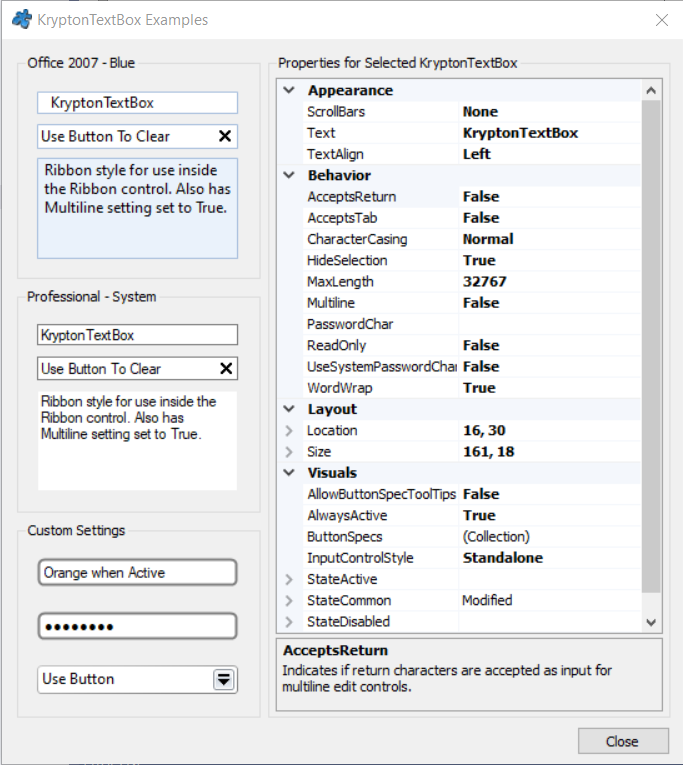
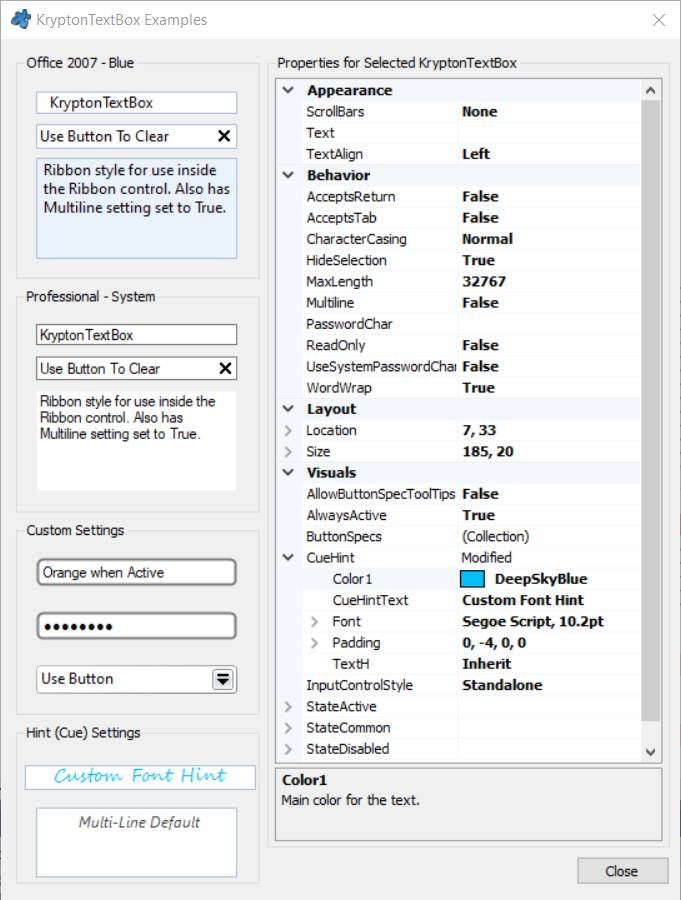
- Add Updates for the Cusatomisable CueHint Text display

Changed region(s): [[0.0, 0.0, 1.0, 1.0], [0.0, 0.0, 0.37, 0.932]]

diff --git a/Source/Krypton Toolkit Examples/KryptonTextBox Examples/Form1.cs b/Source/Krypton Toolkit Examples/KryptonTextBox Examples/Form1.cs
@@ -6,13 +6,13 @@
 //  Glen Waverley, Vic 3150, Australia and are supplied subject to licence terms.
 // 
 //  Modifications by Peter Wagner(aka Wagnerp) & Simon Coghlan(aka Smurf-IV) 2017 - 2021. All rights reserved. (https://github.com/Krypton-Suite/Standard-Toolkit)
-//  Version 5.550.0 	www.ComponentFactory.com
 // *****************************************************************************
 
 using System;
+using System.ComponentModel;
 using System.Drawing;
 using System.Windows.Forms;
-using System.ComponentModel;
+
 using Krypton.Toolkit;
 
 namespace KryptonTextBoxExamples
@@ -68,11 +68,12 @@ namespace KryptonTextBoxExamples
         {
             Close();
         }
+
     }
 
     public class KryptonTextBoxProxy
     {
-        private KryptonTextBox _textBox;
+        private readonly KryptonTextBox _textBox;
 
         public KryptonTextBoxProxy(KryptonTextBox textBox)
         {
@@ -83,179 +84,168 @@ namespace KryptonTextBoxExamples
         [Description("Text for display inside the control.")]
         public string Text
         {
-            get { return _textBox.Text; }
-            set { _textBox.Text = value; }
+            get => _textBox.Text;
+            set => _textBox.Text = value;
         }
 
         [Category("Visuals")]
         [Description("Determines if the control is always active or only when the mouse is over the control or has focus.")]
         public bool AlwaysActive
         {
-            get { return _textBox.AlwaysActive; }
-            set { _textBox.AlwaysActive = value; }
+            get => _textBox.AlwaysActive;
+            set => _textBox.AlwaysActive = value;
         }
+
+        [Category("Visuals")]
+        [Description("Set a watermark/prompt message for the user.")]
+        public PaletteCueHintText CueHint => _textBox.CueHint;
 
         [Category("Appearance")]
         [Description("Indicates, for multiline edit controls, which scroll bars will be shown for this control.")]
         public ScrollBars ScrollBars
         {
-            get { return _textBox.ScrollBars; }
-            set { _textBox.ScrollBars = value; }
+            get => _textBox.ScrollBars;
+            set => _textBox.ScrollBars = value;
         }
 
         [Category("Appearance")]
         [Description("Indicates how the text should be aligned for edit controls.")]
         public HorizontalAlignment TextAlign
         {
-            get { return _textBox.TextAlign; }
-            set { _textBox.TextAlign = value; }
+            get => _textBox.TextAlign;
+            set => _textBox.TextAlign = value;
         }
 
         [Category("Behavior")]
         [Description("Indicates if lines are automatically word-wrapped for multiline edit controls.")]
         public bool WordWrap
         {
-            get { return _textBox.WordWrap; }
-            set { _textBox.WordWrap = value; }
+            get => _textBox.WordWrap;
+            set => _textBox.WordWrap = value;
         }
 
         [Category("Behavior")]
         [Description("Control whether the text in the control can span more than one line.")]
         public bool Multiline
         {
-            get { return _textBox.Multiline; }
-            set { _textBox.Multiline = value; }
+            get => _textBox.Multiline;
+            set => _textBox.Multiline = value;
         }
 
         [Category("Behavior")]
         [Description("Indicates if return characters are accepted as input for multiline edit controls.")]
         public bool AcceptsReturn
         {
-            get { return _textBox.AcceptsReturn; }
-            set { _textBox.AcceptsReturn = value; }
+            get => _textBox.AcceptsReturn;
+            set => _textBox.AcceptsReturn = value;
         }
 
         [Category("Behavior")]
         [Description("Indicates if tab characters are accepted as input for multiline edit controls.")]
         public bool AcceptsTab
         {
-            get { return _textBox.AcceptsTab; }
-            set { _textBox.AcceptsTab = value; }
+            get => _textBox.AcceptsTab;
+            set => _textBox.AcceptsTab = value;
         }
 
         [Category("Behavior")]
         [Description("Indicates if all the characters should be left alone or converted to uppercase or lowercase.")]
         public CharacterCasing CharacterCasing
         {
-            get { return _textBox.CharacterCasing; }
-            set { _textBox.CharacterCasing = value; }
+            get => _textBox.CharacterCasing;
+            set => _textBox.CharacterCasing = value;
         }
 
         [Category("Behavior")]
         [Description("Indicates that the selection should be hidden when the edit control loses focus.")]
         public bool HideSelection
         {
-            get { return _textBox.HideSelection; }
-            set { _textBox.HideSelection = value; }
+            get => _textBox.HideSelection;
+            set => _textBox.HideSelection = value;
         }
 
         [Category("Behavior")]
         [Description("Specifies the maximum number of characters that can be entered into the edit control.")]
         public int MaxLength
         {
-            get { return _textBox.MaxLength; }
-            set { _textBox.MaxLength = value; }
+            get => _textBox.MaxLength;
+            set => _textBox.MaxLength = value;
         }
 
         [Category("Behavior")]
         [Description("Controls whether the text in the edit control can be changed or not.")]
         public bool ReadOnly
         {
-            get { return _textBox.ReadOnly; }
-            set { _textBox.ReadOnly = value; }
+            get => _textBox.ReadOnly;
+            set => _textBox.ReadOnly = value;
         }
 
         [Category("Behavior")]
         [Description("Indicates the character to display for password input for single-line edit controls.")]
         public char PasswordChar
         {
-            get { return _textBox.PasswordChar; }
-            set { _textBox.PasswordChar = value; }
+            get => _textBox.PasswordChar;
+            set => _textBox.PasswordChar = value;
         }
 
         [Category("Behavior")]
         [Description("Indicates if the text in the edit control should appear as the default password character.")]
         public bool UseSystemPasswordChar
         {
-            get { return _textBox.UseSystemPasswordChar; }
-            set { _textBox.UseSystemPasswordChar = value; }
+            get => _textBox.UseSystemPasswordChar;
+            set => _textBox.UseSystemPasswordChar = value;
         }
 
         [Category("Visuals")]
         [Description("Input control style.")]
         public InputControlStyle InputControlStyle
         {
-            get { return _textBox.InputControlStyle; }
-            set { _textBox.InputControlStyle = value; }
+            get => _textBox.InputControlStyle;
+            set => _textBox.InputControlStyle = value;
         }
 
         [Category("Visuals")]
         [Description("Should tooltips be displayed for button specs.")]
         public bool AllowButtonSpecToolTips
         {
-            get { return _textBox.AllowButtonSpecToolTips; }
-            set { _textBox.AllowButtonSpecToolTips = value; }
+            get => _textBox.AllowButtonSpecToolTips;
+            set => _textBox.AllowButtonSpecToolTips = value;
         }
 
         [Category("Visuals")]
         [Description("Collection of button specifications.")]
-        public KryptonTextBox.TextBoxButtonSpecCollection ButtonSpecs
-        {
-            get { return _textBox.ButtonSpecs; }
-        }
+        public KryptonTextBox.TextBoxButtonSpecCollection ButtonSpecs => _textBox.ButtonSpecs;
 
         [Category("Visuals")]
         [Description("Overrides for defining common textbox appearance that other states can override.")]
-        public PaletteInputControlTripleRedirect StateCommon
-        {
-            get { return _textBox.StateCommon; }
-        }
+        public PaletteInputControlTripleRedirect StateCommon => _textBox.StateCommon;
 
         [Category("Visuals")]
         [Description("Overrides for defining disabled textbox appearance.")]
-        public PaletteInputControlTripleStates StateDisabled
-        {
-            get { return _textBox.StateDisabled; }
-        }
+        public PaletteInputControlTripleStates StateDisabled => _textBox.StateDisabled;
 
         [Category("Visuals")]
         [Description("Overrides for defining normal textbox appearance.")]
-        public PaletteInputControlTripleStates StateNormal
-        {
-            get { return _textBox.StateNormal; }
-        }
+        public PaletteInputControlTripleStates StateNormal => _textBox.StateNormal;
 
         [Category("Visuals")]
         [Description("Overrides for defining active textbox appearance.")]
-        public PaletteInputControlTripleStates StateActive
-        {
-            get { return _textBox.StateActive; }
-        }
+        public PaletteInputControlTripleStates StateActive => _textBox.StateActive;
 
         [Category("Layout")]
         [Description("The size of the control is pixels.")]
         public Size Size
         {
-            get { return _textBox.Size; }
-            set { _textBox.Size = value; }
+            get => _textBox.Size;
+            set => _textBox.Size = value;
         }
 
         [Category("Layout")]
         [Description("The location of the control in pixels.")]
         public Point Location
         {
-            get { return _textBox.Location; }
-            set { _textBox.Location = value; }
+            get => _textBox.Location;
+            set => _textBox.Location = value;
         }
     }
 }

diff --git a/Source/Krypton Toolkit Examples/KryptonPalette Examples/Form1.Designer.cs b/Source/Krypton Toolkit Examples/KryptonPalette Examples/Form1.Designer.cs
@@ -29,19 +29,7 @@ namespace KryptonPaletteExamples
         private void InitializeComponent()
         {
             this.components = new System.ComponentModel.Container();
-            Krypton.Toolkit.PopupPositionValues popupPositionValues1 = new Krypton.Toolkit.PopupPositionValues();
             System.ComponentModel.ComponentResourceManager resources = new System.ComponentModel.ComponentResourceManager(typeof(Form1));
-            Krypton.Toolkit.PopupPositionValues popupPositionValues2 = new Krypton.Toolkit.PopupPositionValues();
-            Krypton.Toolkit.PopupPositionValues popupPositionValues3 = new Krypton.Toolkit.PopupPositionValues();
-            Krypton.Toolkit.PopupPositionValues popupPositionValues4 = new Krypton.Toolkit.PopupPositionValues();
-            Krypton.Toolkit.PopupPositionValues popupPositionValues5 = new Krypton.Toolkit.PopupPositionValues();
-            Krypton.Toolkit.PopupPositionValues popupPositionValues6 = new Krypton.Toolkit.PopupPositionValues();
-            Krypton.Toolkit.PopupPositionValues popupPositionValues7 = new Krypton.Toolkit.PopupPositionValues();
-            Krypton.Toolkit.PopupPositionValues popupPositionValues12 = new Krypton.Toolkit.PopupPositionValues();
-            Krypton.Toolkit.PopupPositionValues popupPositionValues8 = new Krypton.Toolkit.PopupPositionValues();
-            Krypton.Toolkit.PopupPositionValues popupPositionValues11 = new Krypton.Toolkit.PopupPositionValues();
-            Krypton.Toolkit.PopupPositionValues popupPositionValues9 = new Krypton.Toolkit.PopupPositionValues();
-            Krypton.Toolkit.PopupPositionValues popupPositionValues10 = new Krypton.Toolkit.PopupPositionValues();
             this.groupBox4 = new System.Windows.Forms.GroupBox();
             this.propertyGrid = new System.Windows.Forms.PropertyGrid();
             this.buttonClose = new System.Windows.Forms.Button();
@@ -215,9 +203,6 @@ namespace KryptonPaletteExamples
             this.kryptonCheckButton1.Name = "kryptonCheckButton1";
             this.kryptonCheckButton1.Size = new System.Drawing.Size(70, 27);
             this.kryptonCheckButton1.TabIndex = 8;
-            popupPositionValues1.PlacementRectangle = new System.Drawing.Rectangle(0, 0, 0, 0);
-            popupPositionValues1.PlacementTarget = null;
-            this.kryptonCheckButton1.ToolTipValues.ToolTipPosition = popupPositionValues1;
             this.kryptonCheckButton1.Text = "Checked";
             // 
             // kryptonPanel1
@@ -571,9 +556,6 @@ namespace KryptonPaletteExamples
             this.kryptonLabel2.Name = "kryptonLabel2";
             this.kryptonLabel2.Size = new System.Drawing.Size(133, 20);
             this.kryptonLabel2.TabIndex = 6;
-            popupPositionValues2.PlacementRectangle = new System.Drawing.Rectangle(0, 0, 0, 0);
-            popupPositionValues2.PlacementTarget = null;
-            this.kryptonLabel2.ToolTipValues.ToolTipPosition = popupPositionValues2;
             this.kryptonLabel2.Text = "kryptonLabel (Normal)";
             // 
             // kryptonLabel1
@@ -583,9 +565,6 @@ namespace KryptonPaletteExamples
             this.kryptonLabel1.Name = "kryptonLabel1";
             this.kryptonLabel1.Size = new System.Drawing.Size(185, 29);
             this.kryptonLabel1.TabIndex = 5;
-            popupPositionValues3.PlacementRectangle = new System.Drawing.Rectangle(0, 0, 0, 0);
-            popupPositionValues3.PlacementTarget = null;
-            this.kryptonLabel1.ToolTipValues.ToolTipPosition = popupPositionValues3;
             this.kryptonLabel1.Text = "kryptonLabel (Title)";
             // 
             // kryptonButton2
@@ -595,9 +574,6 @@ namespace KryptonPaletteExamples
             this.kryptonButton2.Name = "kryptonButton2";
             this.kryptonButton2.Size = new System.Drawing.Size(70, 27);
             this.kryptonButton2.TabIndex = 4;
-            popupPositionValues4.PlacementRectangle = new System.Drawing.Rectangle(0, 0, 0, 0);
-            popupPositionValues4.PlacementTarget = null;
-            this.kryptonButton2.ToolTipValues.ToolTipPosition = popupPositionValues4;
             this.kryptonButton2.Text = "Cancel";
             // 
             // kryptonButton1
@@ -607,9 +583,6 @@ namespace KryptonPaletteExamples
             this.kryptonButton1.Name = "kryptonButton1";
             this.kryptonButton1.Size = new System.Drawing.Size(70, 27);
             this.kryptonButton1.TabIndex = 3;
-            popupPositionValues5.PlacementRectangle = new System.Drawing.Rectangle(0, 0, 0, 0);
-            popupPositionValues5.PlacementTarget = null;
-            this.kryptonButton1.ToolTipValues.ToolTipPosition = popupPositionValues5;
             this.kryptonButton1.Text = "OK";
             // 
             // kryptonHeader2
@@ -619,9 +592,6 @@ namespace KryptonPaletteExamples
             this.kryptonHeader2.Name = "kryptonHeader2";
             this.kryptonHeader2.Size = new System.Drawing.Size(152, 22);
             this.kryptonHeader2.TabIndex = 2;
-            popupPositionValues6.PlacementRectangle = new System.Drawing.Rectangle(0, 0, 0, 0);
-            popupPositionValues6.PlacementTarget = null;
-            this.kryptonHeader2.ToolTipValues.ToolTipPosition = popupPositionValues6;
             this.kryptonHeader2.Values.Heading = "Secondary";
             // 
             // kryptonHeader1
@@ -630,9 +600,6 @@ namespace KryptonPaletteExamples
             this.kryptonHeader1.Name = "kryptonHeader1";
             this.kryptonHeader1.Size = new System.Drawing.Size(177, 31);
             this.kryptonHeader1.TabIndex = 1;
-            popupPositionValues7.PlacementRectangle = new System.Drawing.Rectangle(0, 0, 0, 0);
-            popupPositionValues7.PlacementTarget = null;
-            this.kryptonHeader1.ToolTipValues.ToolTipPosition = popupPositionValues7;
             this.kryptonHeader1.Values.Heading = "Primary";
             // 
             // kryptonSplitContainer1
@@ -651,9 +618,6 @@ namespace KryptonPaletteExamples
             this.kryptonSplitContainer1.Size = new System.Drawing.Size(231, 167);
             this.kryptonSplitContainer1.SplitterDistance = 90;
             this.kryptonSplitContainer1.TabIndex = 0;
-            popupPositionValues12.PlacementRectangle = new System.Drawing.Rectangle(0, 0, 0, 0);
-            popupPositionValues12.PlacementTarget = null;
-            this.kryptonSplitContainer1.ToolTipValues.ToolTipPosition = popupPositionValues12;
             // 
             // kryptonHeaderGroup1
             // 
@@ -662,9 +626,6 @@ namespace KryptonPaletteExamples
             this.kryptonHeaderGroup1.Name = "kryptonHeaderGroup1";
             this.kryptonHeaderGroup1.Size = new System.Drawing.Size(90, 167);
             this.kryptonHeaderGroup1.TabIndex = 0;
-            popupPositionValues8.PlacementRectangle = new System.Drawing.Rectangle(0, 0, 0, 0);
-            popupPositionValues8.PlacementTarget = null;
-            this.kryptonHeaderGroup1.ToolTipValues.ToolTipPosition = popupPositionValues8;
             this.kryptonHeaderGroup1.ValuesPrimary.Heading = "Example";
             this.kryptonHeaderGroup1.ValuesPrimary.Image = null;
             // 
@@ -686,9 +647,6 @@ namespace KryptonPaletteExamples
             this.kryptonSplitContainer2.Size = new System.Drawing.Size(136, 167);
             this.kryptonSplitContainer2.SplitterDistance = 98;
             this.kryptonSplitContainer2.TabIndex = 0;
-            popupPositionValues11.PlacementRectangle = new System.Drawing.Rectangle(0, 0, 0, 0);
-            popupPositionValues11.PlacementTarget = null;
-            this.kryptonSplitContainer2.ToolTipValues.ToolTipPosition = popupPositionValues11;
             // 
             // kryptonHeaderGroup2
             // 
@@ -699,9 +657,6 @@ namespace KryptonPaletteExamples
             this.kryptonHeaderGroup2.Size = new System.Drawing.Size(136, 98);
             this.kryptonHeaderGroup2.StateNormal.HeaderPrimary.Content.Image.ImageH = Krypton.Toolkit.PaletteRelativeAlign.Far;
             this.kryptonHeaderGroup2.TabIndex = 0;
-            popupPositionValues9.PlacementRectangle = new System.Drawing.Rectangle(0, 0, 0, 0);
-            popupPositionValues9.PlacementTarget = null;
-            this.kryptonHeaderGroup2.ToolTipValues.ToolTipPosition = popupPositionValues9;
             this.kryptonHeaderGroup2.ValuesPrimary.Heading = "Calendar";
             this.kryptonHeaderGroup2.ValuesPrimary.Image = ((System.Drawing.Image)(resources.GetObject("kryptonHeaderGroup2.ValuesPrimary.Image")));
             // 
@@ -714,9 +669,6 @@ namespace KryptonPaletteExamples
             this.kryptonGroup1.Name = "kryptonGroup1";
             this.kryptonGroup1.Size = new System.Drawing.Size(136, 64);
             this.kryptonGroup1.TabIndex = 0;
-            popupPositionValues10.PlacementRectangle = new System.Drawing.Rectangle(0, 0, 0, 0);
-            popupPositionValues10.PlacementTarget = null;
-            this.kryptonGroup1.ToolTipValues.ToolTipPosition = popupPositionValues10;
             // 
             // groupBox2
             // 
